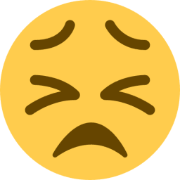
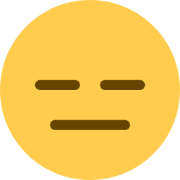
Emoji switch

diff --git a/src/components/Patterns/Patterns.js b/src/components/Patterns/Patterns.js
@@ -1,21 +1,142 @@
+import React, { useState, useEffect } from 'react';
 import './Patterns.scss';
+import { db, auth } from '../../firebase';
+import { useAuthState } from "react-firebase-hooks/auth";
+import { collection, addDoc, query, where, getDocs  } from 'firebase/firestore';
 
 function Patterns() {
+    const [elevationCount, setElevationCount] = useState(0);
+    const [depressionCount, setDepressionCount] = useState(0);
+    const [currentUserUid, setCurrentUserUid] = useState(null);
+
+    // useEffect(() => {
+    //     const fetchMoodLogs = async () => {
+    //         try {
+    //             const q = query(collection(db, 'moodlogs'), where('uid', '==', currentUserUid));
+    //             const moodLogsSnapshot = await getDocs(q);
+    //             const moodLogs = moodLogsSnapshot.docs.map(doc => doc.data());
+
+    //             // if (moodLogs.length < 12) {
+    //             //     setElevationCount('Not enough data');
+    //             //     setDepressionCount('Not enough data');
+    //             //     return;
+    //             // }
+
+    //             let consecutiveElevationCount = 0;
+    //             let consecutiveDepressionCount = 0;
+    //             let prevLogState = null;
+
+    //             moodLogs.forEach(log => {
+    //                 if (log.state === 'Elevated') {
+    //                     if (prevLogState === 'Elevated') {
+    //                         consecutiveElevationCount++;
+    //                     } else {
+    //                         consecutiveElevationCount = 1;
+    //                     }
+    //                     prevLogState = 'Elevated';
+    //                 } else if (log.state === 'Depressed') {
+    //                     if (prevLogState === 'Depressed') {
+    //                         consecutiveDepressionCount++;
+    //                     } else {
+    //                         consecutiveDepressionCount = 1;
+    //                     }
+    //                     prevLogState = 'Depressed';
+    //                 } else {
+    //                     consecutiveElevationCount = 0;
+    //                     consecutiveDepressionCount = 0;
+    //                     prevLogState = null;
+    //                 }
+    //             });
+
+    //             setElevationCount(consecutiveElevationCount);
+    //             setDepressionCount(consecutiveDepressionCount);
+    //         } catch (error) {
+    //             console.error('Error fetching mood logs:', error);
+    //         }
+    //     };
+
+    //     fetchMoodLogs();
+
+    // }, [currentUserUid]);
+
+    // Function to check if two dates are consecutive days
+    
+    useEffect(() => {
+        // Fetch the current user's UID
+        const unsubscribe = auth.onAuthStateChanged(user => {
+            if (user) {
+                setCurrentUserUid(user.uid);
+            }
+        });
+
+        return () => unsubscribe();
+
+    }, []);
+
+    useEffect(() => {
+        const fetchMoodLogs = async () => {
+            try {
+                if (!currentUserUid) return;
+
+                const q = query(collection(db, 'moodlogs'), where('uid', '==', currentUserUid));
+                const moodLogsSnapshot = await getDocs(q);
+                const moodLogs = moodLogsSnapshot.docs.map(doc => doc.data());
+
+                let consecutiveElevationCount = 0;
+                let consecutiveDepressionCount = 0;
+                let prevDate = null;
+
+                moodLogs.forEach(log => {
+                    const currentDate = new Date(log.date.toDate());
+
+                    // Check if the log state is "Elevated" or "Depressed"
+                    if (log.state === 'Elevated' || log.state === 'Depressed') {
+                        if (prevDate && isConsecutiveDays(prevDate, currentDate)) {
+                            if (log.state === 'Elevated') {
+                                consecutiveElevationCount++;
+                            } else if (log.state === 'Depressed') {
+                                consecutiveDepressionCount++;
+                            }
+                        } else {
+                            consecutiveElevationCount = log.state === 'Elevated' ? 1 : 0;
+                            consecutiveDepressionCount = log.state === 'Depressed' ? 1 : 0;
+                        }
+                    }
+
+                    prevDate = currentDate;
+                });
+
+                setElevationCount(consecutiveElevationCount);
+                setDepressionCount(consecutiveDepressionCount);
+            } catch (error) {
+                console.error('Error fetching mood logs:', error);
+            }
+        };
+
+        fetchMoodLogs();
+
+    }, [currentUserUid]);
+
+    // Function to check if two dates are consecutive days
+    const isConsecutiveDays = (prevDate, currentDate) => {
+        const oneDay = 24 * 60 * 60 * 1000;
+        const diffInDays = Math.round(Math.abs((prevDate - currentDate) / oneDay));
+        return diffInDays === 1;
+    };
+
     return (
         <>
             <section className='patterns'>
-            <article className='patterns__pattern'>
+                <article className='patterns__pattern'>
                     <h5 className='patterns__pattern-head'>your typical duration of elevation: <b className='patterns__pattern-number'>
-
-                    </b>
-                        days</h5>
+                        {elevationCount}
+                    </b> days</h5>
 
                 </article>
                 <article className='patterns__pattern'>
                     <h5 className='patterns__pattern-head'>your typical duration of depression: <b className='patterns__pattern-number'>
-
-                    </b>
-                        days</h5>
+                        {depressionCount}
+                    </b> days</h5>
                 </article>
                 <article className='patterns__pattern'>
                     <h5 className='patterns__pattern-head'>events that incite a dip⤵ in mood - keywords from your notes, comments and titles</h5>

diff --git a/src/components/QuickForm/QuickForm.js b/src/components/QuickForm/QuickForm.js
@@ -8,7 +8,7 @@ import awesomesleep from "../../assets/Awesome.png";
 import angry from "../../assets/emotes/angry.png";
 import annoyed from "../../assets/emotes/annoyed.png";
 import anxious from "../../assets/emotes/anxious.png";
-import content from "../../assets/emotes/content.png";
+import wired from "../../assets/emotes/wired.png";
 import down from "../../assets/emotes/down.png";
 import energized from "../../assets/emotes/energized.png";
 import excited from "../../assets/emotes/excited.png";
@@ -581,19 +581,19 @@ const QuickForm = () => {
                                     </li>
 
                                     <li className='add-mood-quick__emote-menu-option'>
-                                        <button className={`liteyellow add-mood-quick__emote-menu-option--buttonpress ${formData.emoji === 'content' ? 'selected' : ''}`} type="button" >
+                                        <button className={`liteyellow add-mood-quick__emote-menu-option--buttonpress ${formData.emoji === 'wired' ? 'selected' : ''}`} type="button" >
                                             <input
                                                 name="emotion"
                                                 className='add-mood-quick__emote-option-eq'
                                                 type='radio'
-                                                id='content'
-                                                value='content'
-                                                checked={formData.emoji === 'content'}
-                                                onChange={() => handleInputChange('emotion', 'content', 'content')}
+                                                id='wired'
+                                                value='wired'
+                                                checked={formData.emoji === 'wired'}
+                                                onChange={() => handleInputChange('emotion', 'wired', 'wired')}
                                             />
-                                            <label htmlFor='content'>
-                                                <img alt="content" src={content} />
-                                                <h4>content</h4>
+                                            <label htmlFor='wired'>
+                                                <img alt="wired" src={wired} />
+                                                <h4>wired</h4>
                                             </label>
                                         </button>
                                     </li>
@@ -1300,19 +1300,19 @@ const QuickForm = () => {
                                     </li>
 
                                     <li className='add-mood-quick__emote-menu-option'>
-                                        <button className={`liteyellow add-mood-quick__emote-menu-option--buttonpress ${formData.emoji === 'content' ? 'selected' : ''}`} type="button" >
+                                        <button className={`liteyellow add-mood-quick__emote-menu-option--buttonpress ${formData.emoji === 'wired' ? 'selected' : ''}`} type="button" >
                                             <input
                                                 name="emotion"
                                                 className='add-mood-quick__emote-option-eq'
                                                 type='radio'
-                                                id='content'
-                                                value='content'
-                                                checked={formData.emoji === 'content'}
-                                                onChange={() => handleInputChange('emotion', 'content', 'content')}
+                                                id='wired'
+                                                value='wired'
+                                                checked={formData.emoji === 'wired'}
+                                                onChange={() => handleInputChange('emotion', 'wired', 'wired')}
                                             />
-                                            <label htmlFor='content'>
-                                                <img alt="content" src={content} />
-                                                <h4>content</h4>
+                                            <label htmlFor='wired'>
+                                                <img alt="wired" src={wired} />
+                                                <h4>wired</h4>
                                             </label>
                                         </button>
                                     </li>

diff --git a/src/pages/MoodMapsPage/MoodMapsPage.js b/src/pages/MoodMapsPage/MoodMapsPage.js
@@ -14,6 +14,8 @@ import Patterns from '../../components/Patterns/Patterns';
 const MoodMapsPage = () => {
     const [user] = useAuthState(auth);
     const [streak, setStreak] = useState(1);
+    const currentUserUid = user ? user.uid : null; 
+    
     useEffect(() => {
         const calculateStreak = async () => {
             try {
@@ -96,7 +98,7 @@ const MoodMapsPage = () => {
 
                     <section className='maps__mood'>
                         <h2 className='maps__mood-head'>Your Patterns</h2>
-                        <Patterns/>
+                        <Patterns currentUserUid={currentUserUid} />
                     </section>
 
                 </div>

diff --git a/src/components/Logged/Logged.js b/src/components/Logged/Logged.js
@@ -75,8 +75,8 @@ function Logged({ logData, searchTerm }) {
             backgroundColor = "rgba(290, 146, 0, 0.792)";
             break;
         case "unsure":
-        case "content":
-            backgroundColor = "rgba(217, 255, 0, 0.82)";
+        case "wired":
+            backgroundColor = "rgba(247, 245, 0, 0.74)";
             break;
         case "happy":
         case "loving":

diff --git a/src/styles/partials/_variables.scss b/src/styles/partials/_variables.scss
@@ -16,7 +16,7 @@ $thegreen: rgba(22, 201, 22, 0.729);
 $thered: rgba(255, 0, 123, 0.896);
 $theorange: rgba(255, 166, 0, 0.792);
 $thedeep: rgba(0, 0, 255, 0.763);
-$liteyellow: rgba(217, 255, 0, 0.82);
+$liteyellow: rgba(245, 245, 96, 0.75);
 
 $color1: #306D85;
 $color2: #D93A54;

diff --git a/src/components/Patterns/Patterns.scss b/src/components/Patterns/Patterns.scss
@@ -9,6 +9,7 @@
         &-head {
             font-weight: 400;
             margin: 0 0 .6rem;
+            // background-color: red;
         }
     }
 }
